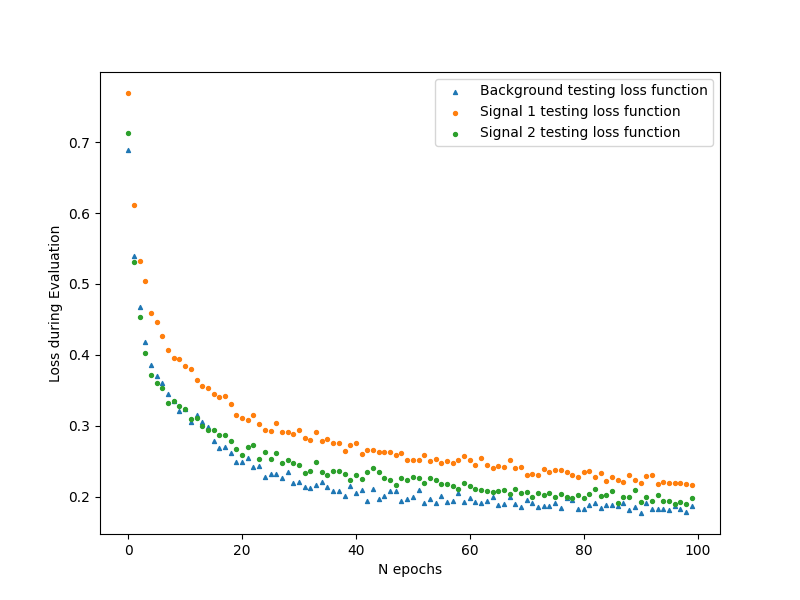
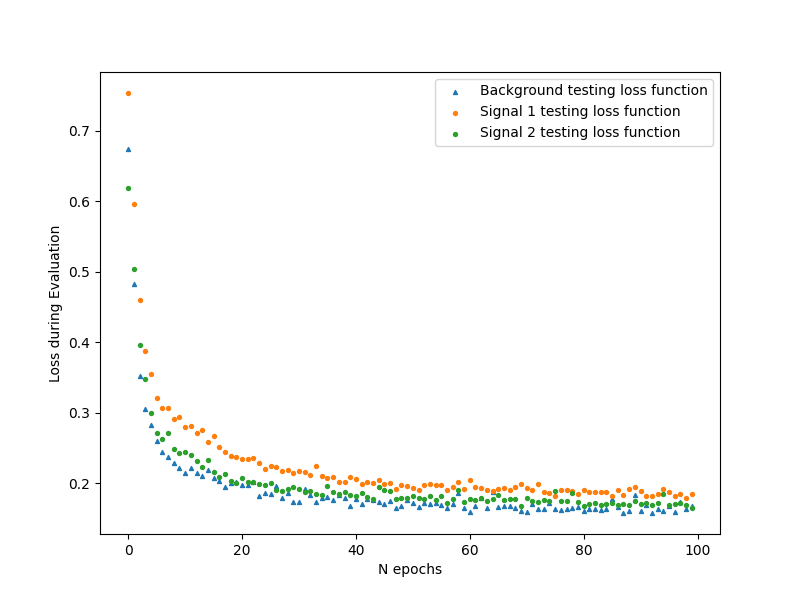
Training with standard scaling and 84, 14 layer dimensions

diff --git a/autoencoder.py b/autoencoder.py
@@ -49,7 +49,7 @@ class AutoEncoder(nn.Module):
             nn.ReLU(),
             nn.Linear(mid_dim, input_dim),
             # nn.ReLU() # MinMax Scaling 
-            nn.ELU(alpha=10) # Standard Scaling
+            nn.ELU(alpha=2) # Standard Scaling
         )
 
         # Initialize decoder weights with encoder weights
